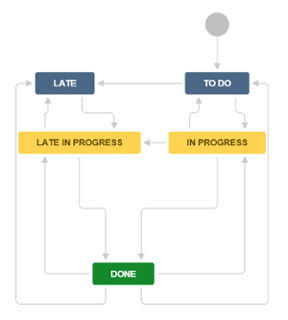
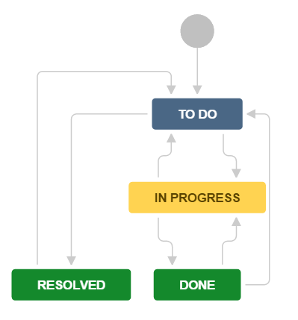
Removed LATE state from workflow. Added RESOLVED state. Correct IssueDecorator when components list is empty. Added handle for this situation in JS code. Other little corrections.

Changed region(s): [[0.0312, 0.0312, 0.9375, 0.9688], [0.75, 0.75, 0.7812, 0.7812]]

diff --git a/event-planner/src/main/resources/templates/timeline/task-gadget-creator.js b/event-planner/src/main/resources/templates/timeline/task-gadget-creator.js
@@ -15,7 +15,10 @@ function TaskGadgetCreator() {
         gadgetItem.appendChild(titleElement);
 
         var titleTextElement = that.createElement('H3', 'dashboard-item-title');
-        titleTextElement.appendChild(document.createTextNode(issue.componentsNames[0]));
+        var componentsNames = issue.componentsNames;
+        if(componentsNames.length > 0 && componentsNames[0] && componentsNames[0].length > 0) {
+            titleTextElement.appendChild(document.createTextNode(componentsNames[0]));
+        }
         titleElement.appendChild(titleTextElement);
 
         var summaryElement = that.createElement('DIV', 'dashboard-item-content');

diff --git a/event-planner/src/test/java/ut/edu/uz/jira/event/planner/project/EventOrganizationProjectHookTest.java b/event-planner/src/test/java/ut/edu/uz/jira/event/planner/project/EventOrganizationProjectHookTest.java
@@ -1,6 +1,5 @@
 package ut.edu.uz.jira.event.planner.project;
 
-import com.atlassian.jira.bc.JiraServiceContext;
 import com.atlassian.jira.bc.workflow.WorkflowService;
 import com.atlassian.jira.bc.workflow.WorkflowTransitionService;
 import com.atlassian.jira.blueprint.api.ConfigureData;
@@ -24,13 +23,10 @@ import com.atlassian.jira.scheme.Scheme;
 import com.atlassian.jira.security.JiraAuthenticationContext;
 import com.atlassian.jira.user.ApplicationUser;
 import com.atlassian.jira.user.MockApplicationUser;
-import com.atlassian.jira.util.SimpleErrorCollection;
 import com.atlassian.jira.workflow.JiraWorkflow;
 import com.atlassian.jira.workflow.WorkflowManager;
 import com.atlassian.sal.api.message.I18nResolver;
 import com.opensymphony.workflow.loader.ActionDescriptor;
-import com.opensymphony.workflow.loader.ConditionDescriptor;
-import com.opensymphony.workflow.loader.FunctionDescriptor;
 import edu.uz.jira.event.planner.exception.NullArgumentException;
 import edu.uz.jira.event.planner.project.EventOrganizationProjectHook;
 import edu.uz.jira.event.planner.util.text.Internationalization;
@@ -44,11 +40,9 @@ import org.mockito.stubbing.Answer;
 import java.util.ArrayList;
 import java.util.Collection;
 import java.util.HashMap;
-import java.util.List;
 
 import static junit.framework.Assert.assertNotNull;
 import static org.junit.Assert.assertEquals;
-import static org.junit.Assert.assertFalse;
 import static org.mockito.Mockito.mock;
 
 public class EventOrganizationProjectHookTest {
@@ -112,57 +106,6 @@ public class EventOrganizationProjectHookTest {
         ConfigureResponse result = hook.configure(configureData);
 
         assertNotNull(result);
-    }
-
-    @Test
-    public void event_Organization_Workflow_Should_Has_Added_Update_Due_Date_Post_Function() throws NullArgumentException {
-        final String transitionName = "Deadline exceeded";
-        String mockWorkflowName = "EVENT-ORGANIZATION-WORKFLOW";
-
-        final JiraWorkflow mockWorkflow = mock(JiraWorkflow.class);
-        Mockito.when(mockWorkflow.getName()).thenReturn(mockWorkflowName);
-
-        ActionDescriptor mockAction = mock(ActionDescriptor.class);
-        Mockito.when(mockAction.getName()).thenReturn(transitionName);
-        final List<FunctionDescriptor> mockPostFunctions = new ArrayList<FunctionDescriptor>();
-        Mockito.when(mockAction.getPostFunctions()).thenReturn(mockPostFunctions);
-
-        Collection<ActionDescriptor> mockActionDescriptors = new ArrayList<ActionDescriptor>();
-        mockActionDescriptors.add(mockAction);
-        Mockito.when(mockWorkflow.getActionsByName(transitionName)).thenReturn(mockActionDescriptors);
-        HashMap<String, JiraWorkflow> createdWorkflows = new HashMap<String, JiraWorkflow>();
-
-        createdWorkflows.put(mockWorkflowName, mockWorkflow);
-        ConfigureData configureData = ConfigureData.create(mock(Project.class), mock(Scheme.class), createdWorkflows, mock(FieldConfigScheme.class), new HashMap<String, IssueType>());
-
-        Mockito.when(mockWorkflowService.getDraftWorkflow(Mockito.any(JiraServiceContext.class), Mockito.anyString())).thenReturn(mockWorkflow);
-        Mockito.when(mockWorkflowService.createDraftWorkflow(Mockito.any(JiraServiceContext.class), Mockito.anyString())).thenReturn(mockWorkflow);
-
-        Mockito.when(mockWorkflowTransitionService.addConditionToWorkflow(Mockito.anyString(), Mockito.any(ConditionDescriptor.class), Mockito.any(JiraWorkflow.class))).thenReturn(new SimpleErrorCollection());
-        Mockito.when(mockWorkflowTransitionService.addPostFunctionToWorkflow(Mockito.anyString(), Mockito.any(FunctionDescriptor.class), Mockito.any(JiraWorkflow.class))).thenAnswer(
-                new Answer<Object>() {
-                    @Override
-                    public Object answer(InvocationOnMock invocation) throws Throwable {
-                        Object[] arguments = invocation.getArguments();
-                        String transitionName = (String) arguments[0];
-                        FunctionDescriptor function = (FunctionDescriptor) arguments[1];
-                        JiraWorkflow workflow = (JiraWorkflow) arguments[2];
-
-                        for (ActionDescriptor each : workflow.getActionsByName(transitionName)) {
-                            each.getPostFunctions().add(0, function);
-                        }
-
-                        return new SimpleErrorCollection();
-                    }
-                });
-
-        EventOrganizationProjectHook hook = new EventOrganizationProjectHook(mocki18n, mockWorkflowTransitionService);
-
-        hook.configure(configureData);
-
-        for (ActionDescriptor eachWorkflowAction : mockWorkflow.getActionsByName(transitionName)) {
-            assertFalse(eachWorkflowAction.getPostFunctions().isEmpty());
-        }
     }
 
     @Test

diff --git a/event-planner/src/main/java/edu/uz/jira/event/planner/project/EventOrganizationProjectHook.java b/event-planner/src/main/java/edu/uz/jira/event/planner/project/EventOrganizationProjectHook.java
@@ -10,14 +10,13 @@ import com.atlassian.jira.project.ProjectCategory;
 import com.atlassian.jira.workflow.JiraWorkflow;
 import com.atlassian.sal.api.message.I18nResolver;
 import com.opensymphony.workflow.loader.ConditionDescriptor;
-import com.opensymphony.workflow.loader.FunctionDescriptor;
 import com.opensymphony.workflow.loader.ValidatorDescriptor;
 import edu.uz.jira.event.planner.exception.NullArgumentException;
 import edu.uz.jira.event.planner.project.issue.fields.IssueFieldsConfigurator;
+import edu.uz.jira.event.planner.util.WorkflowUtils;
 import edu.uz.jira.event.planner.workflow.WorkflowConfigurator;
 import edu.uz.jira.event.planner.workflow.WorkflowConstants;
 import edu.uz.jira.event.planner.workflow.WorkflowDescriptorsFactory;
-import edu.uz.jira.event.planner.util.WorkflowUtils;
 
 import javax.annotation.Nonnull;
 import java.util.List;
@@ -77,7 +76,7 @@ public class EventOrganizationProjectHook implements AddProjectHook {
         } catch (JiraException e) {
             return ConfigureResponse.create().setRedirect(REDIRECT_URL);
         }
-        
+
         return ConfigureResponse.create().setRedirect(REDIRECT_URL + String.format(REDIRECT_URL_ARGUMENTS, project.getKey()));
     }
 
@@ -99,12 +98,10 @@ public class EventOrganizationProjectHook implements AddProjectHook {
             ValidatorDescriptor validator = workflowDescriptorsFactory.createIssueDueDateValidatorDescriptor();
             workflowConfigurator.addToDraft(workflow, validator, WorkflowConstants.CREATE_WORKFLOW_ACTION_NAME);
 
-            FunctionDescriptor postFunction = workflowDescriptorsFactory.createUpdateDueDatePostFunctionDescriptor();
-            workflowConfigurator.addToDraft(workflow, postFunction, WorkflowConstants.POST_FUNCTION_TRANSITION_NAME);
-
             List<String> statusesWhichBlocks = utils.getStatusesFromCategory(workflow, WorkflowConstants.COMPLETE_STATUS_CATEGORY_NAME);
             ConditionDescriptor condition = workflowDescriptorsFactory.createSubTaskBlockingConditionDescriptor(statusesWhichBlocks);
             workflowConfigurator.addToDraft(workflow, condition, WorkflowConstants.DONE_STATUS_NAME);
+            workflowConfigurator.addToDraft(workflow, condition, WorkflowConstants.RESOLVED_STATUS_NAME);
 
             workflowConfigurator.publishDraft(workflow);
         } else {

diff --git a/event-planner/src/main/java/edu/uz/jira/event/planner/workflow/WorkflowDescriptorsFactory.java b/event-planner/src/main/java/edu/uz/jira/event/planner/workflow/WorkflowDescriptorsFactory.java
@@ -3,10 +3,8 @@ package edu.uz.jira.event.planner.workflow;
 import com.atlassian.jira.workflow.condition.SubTaskBlockingCondition;
 import com.opensymphony.workflow.loader.ConditionDescriptor;
 import com.opensymphony.workflow.loader.DescriptorFactory;
-import com.opensymphony.workflow.loader.FunctionDescriptor;
 import com.opensymphony.workflow.loader.ValidatorDescriptor;
 import edu.uz.jira.event.planner.util.text.TextUtils;
-import edu.uz.jira.event.planner.workflow.postfunctions.UpdateDueDatePostFunction;
 import edu.uz.jira.event.planner.workflow.validators.IssueDueDateValidator;
 
 import javax.annotation.Nonnull;
@@ -21,19 +19,6 @@ public class WorkflowDescriptorsFactory {
     public static final String STATUSES_KEY = "statuses";
     public static final String TYPE_NAME = "class";
     public final TextUtils utils = new TextUtils();
-
-    /**
-     * @return Update Due Date Workflow Post Function.
-     */
-    public FunctionDescriptor createUpdateDueDatePostFunctionDescriptor() {
-        FunctionDescriptor result = DescriptorFactory.getFactory().createFunctionDescriptor();
-        result.setType(TYPE_NAME);
-
-        Map functionArguments = result.getArgs();
-        functionArguments.put(CLASS_NAME_KEY, UpdateDueDatePostFunction.class.getName());
-
-        return result;
-    }
 
     /**
      * @param statusesToBlock Workflow statuses to block condition.

diff --git a/event-planner/src/main/java/edu/uz/jira/event/planner/util/IssueDecorator.java b/event-planner/src/main/java/edu/uz/jira/event/planner/util/IssueDecorator.java
@@ -55,7 +55,7 @@ public class IssueDecorator {
         summary = source.getSummary();
 
         Timestamp sourceDueDate = source.getDueDate();
-        if(sourceDueDate != null) {
+        if (sourceDueDate != null) {
             dueDate = sourceDueDate.getTime();
             daysAwayFromDueDate = DUE_DATE_INDICATOR.getDaysAwayFromDueDate(sourceDueDate);
         }
@@ -86,11 +86,14 @@ public class IssueDecorator {
         Collection<ProjectComponent> components = source.getComponentObjects();
 
         if (components != null && !components.isEmpty()) {
-            Iterator<ProjectComponent> componentsIterator = components.iterator();
             componentsNames = new String[components.size()];
+
+            Iterator<ProjectComponent> componentsIterator = components.iterator();
             for (int index = 0; index < components.size(); index++) {
                 componentsNames[index] = componentsIterator.next().getName();
             }
+        } else {
+            componentsNames = new String[]{};
         }
     }
 

diff --git a/event-planner/src/test/java/ut/edu/uz/jira/event/planner/workflow/WorkflowDescriptorsFactoryTest.java b/event-planner/src/test/java/ut/edu/uz/jira/event/planner/workflow/WorkflowDescriptorsFactoryTest.java
@@ -1,7 +1,6 @@
 package ut.edu.uz.jira.event.planner.workflow;
 
 import com.opensymphony.workflow.loader.ConditionDescriptor;
-import com.opensymphony.workflow.loader.FunctionDescriptor;
 import com.opensymphony.workflow.loader.ValidatorDescriptor;
 import edu.uz.jira.event.planner.workflow.WorkflowDescriptorsFactory;
 import org.junit.Test;
@@ -53,14 +52,6 @@ public class WorkflowDescriptorsFactoryTest {
     public void sub_Task_Blocking_Condition_Should_Not_Be_Null() {
         WorkflowDescriptorsFactory fixture = new WorkflowDescriptorsFactory();
         ConditionDescriptor result = fixture.createSubTaskBlockingConditionDescriptor(null);
-
-        assertNotNull(result);
-    }
-
-    @Test
-    public void update_Due_Date_Post_Function_Should_Not_Be_Null() {
-        WorkflowDescriptorsFactory fixture = new WorkflowDescriptorsFactory();
-        FunctionDescriptor result = fixture.createUpdateDueDatePostFunctionDescriptor();
 
         assertNotNull(result);
     }

diff --git a/event-planner/src/main/java/edu/uz/jira/event/planner/workflow/WorkflowConstants.java b/event-planner/src/main/java/edu/uz/jira/event/planner/workflow/WorkflowConstants.java
@@ -5,9 +5,9 @@ package edu.uz.jira.event.planner.workflow;
  */
 public enum WorkflowConstants {
     ;
-    public static final String POST_FUNCTION_TRANSITION_NAME = "Deadline exceeded";
     public static final String COMPLETE_STATUS_CATEGORY_NAME = "Complete";
     public static final String DONE_STATUS_NAME = "Done";
     public static final String CREATE_WORKFLOW_ACTION_NAME = "Create";
     public static final String EVENT_ORGANIZATION_WORKFLOW_KEY = "EVENT-ORGANIZATION-WORKFLOW";
+    public static final String RESOLVED_STATUS_NAME = "Resolved";
 }

diff --git a/event-planner/src/main/java/edu/uz/jira/event/planner/workflow/validators/IssueDueDateValidator.java b/event-planner/src/main/java/edu/uz/jira/event/planner/workflow/validators/IssueDueDateValidator.java
@@ -71,7 +71,7 @@ public class IssueDueDateValidator implements Validator {
             throw new InvalidInputException("Issue Due Date cannot be empty!");
         }
         if (projectReleaseDate != null && issueDueDate != null && issueDueDate.after(projectReleaseDate)) {
-            throw new InvalidInputException("Issue Due Date cannot be after Project Due Date!");
+            throw new InvalidInputException("Issue Due Date cannot be after Event deadline!");
         }
     }
 }
